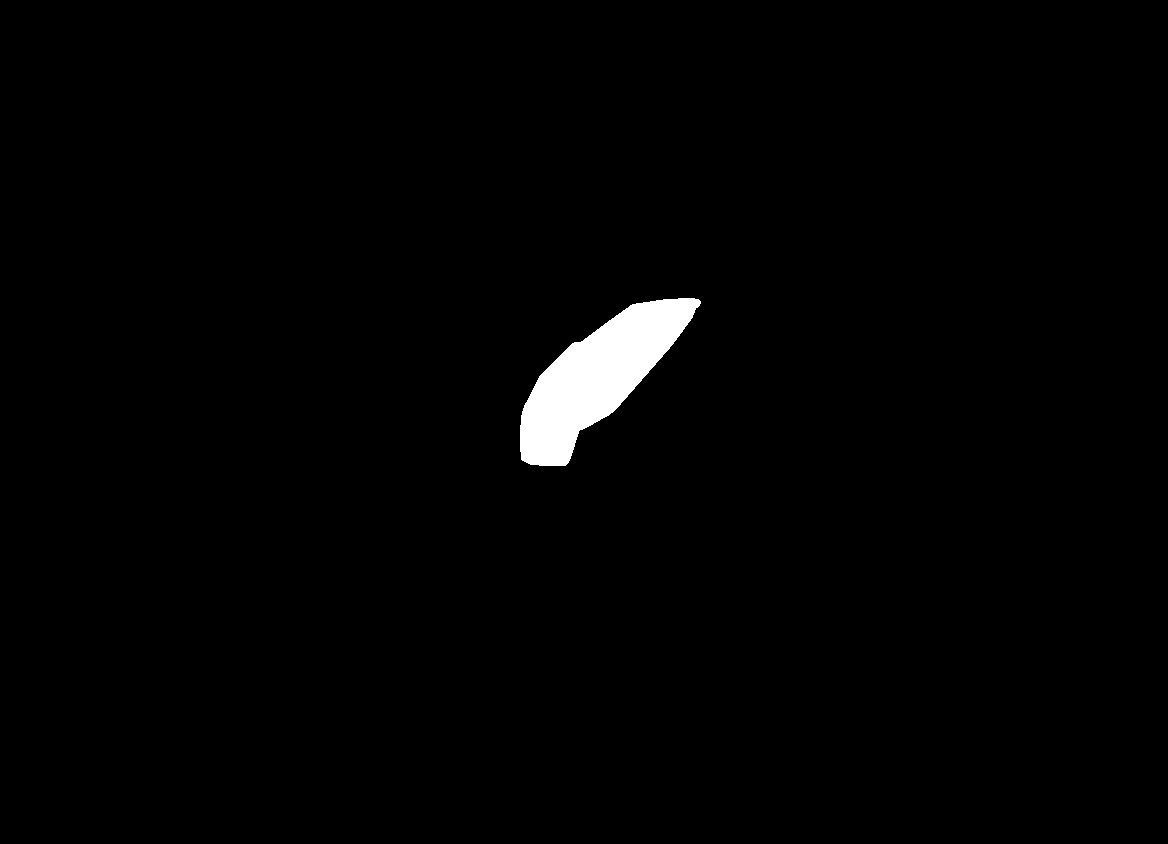
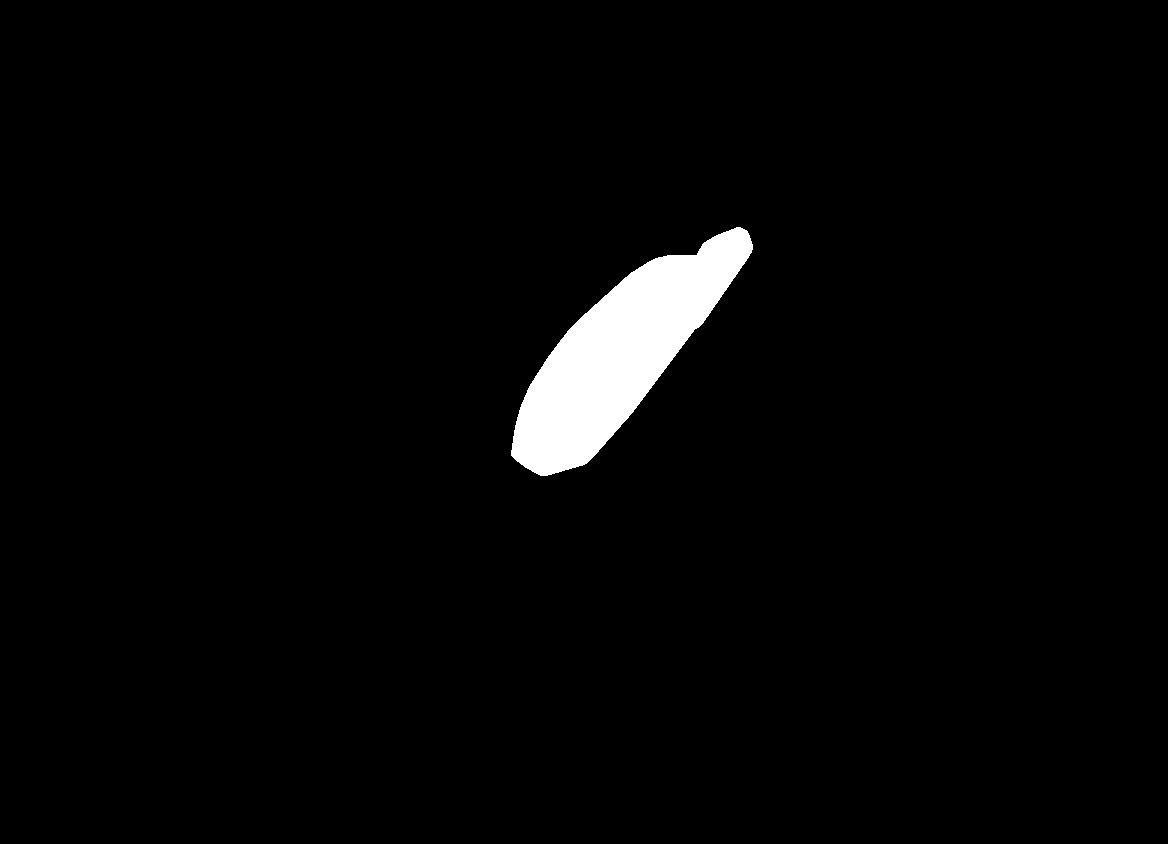
score: 82.43

Changed region(s): [[0.4623, 0.2464, 0.6473, 0.4313], [0.4315, 0.4005, 0.5856, 0.5853]]

diff --git a/imageReader.py b/imageReader.py
@@ -1,7 +1,7 @@
 import cv2
 import matplotlib.pyplot as plt
 import numpy as np
-
+from collections import Counter
 
 def binary(image, threshold_l=5):
     arr1 = np.zeros(image.shape, np.uint8)
@@ -9,7 +9,13 @@ def binary(image, threshold_l=5):
     th_y = image.shape[1]//4
     mean = np.mean(image[th_x:3*th_x, th_y:3*th_y])
     std = np.std(image[th_x:3*th_x, th_y:3*th_y])
-    threshold_r = mean-0.78*std
+    temp = image[th_x:3*th_x, th_y:3*th_y].ravel()
+    count = Counter(temp).most_common()
+    threshold_r = max(62, 0.75*count[1][0], mean-0.78*std)
+    if std > 50:
+        threshold_r = mean-0.78*std
+    if std < 35:
+        threshold_r = 0.75*count[1][0]
     for i in range(image.shape[0]):
         for j in range(image.shape[1]):
             if i < th_x or i > 3*th_x or j < th_y or j > 3*th_y:
@@ -23,7 +29,7 @@ def binary(image, threshold_l=5):
     return arr1
 
 
-for i in range(1, 2):
+for i in range(10):
     img1 = cv2.imread("val/img/000{}.jpg".format(i), flags=cv2.IMREAD_GRAYSCALE)
     img1 = cv2.medianBlur(img1, 7)
     img2 = binary(img1).astype(np.uint8)
@@ -57,7 +63,5 @@ for i in range(1, 2):
                         pass
                     else:
                         temp2[row][col] = 255
-            plt.imshow(temp2, cmap='gray')
-            plt.show()
             cv2.imwrite("results/masked_000{}.jpg".format(i), temp2)
             break
